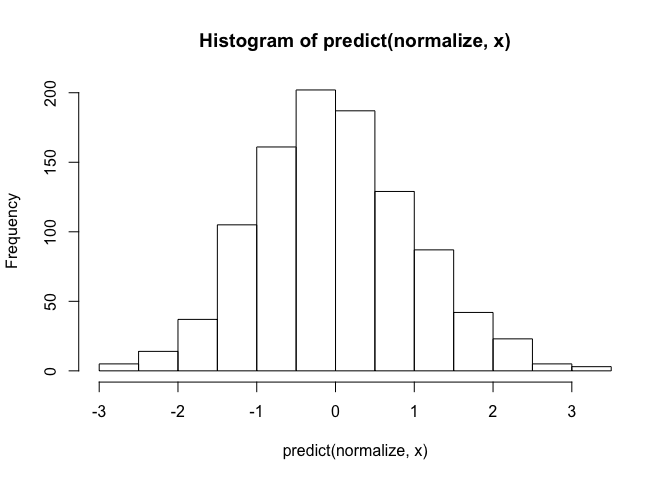
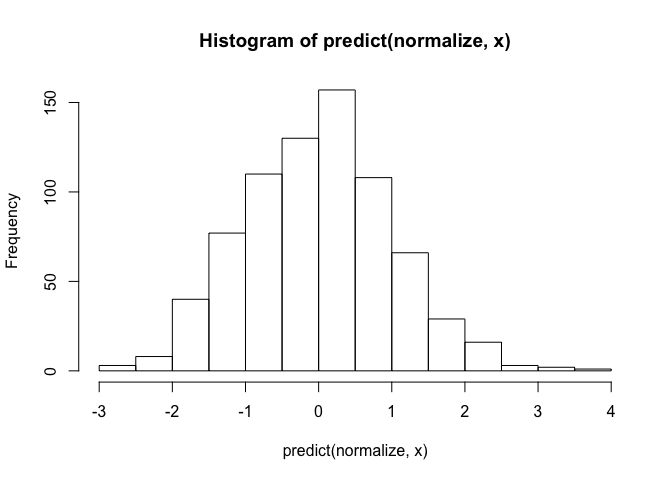
added impute

diff --git a/readme.md b/readme.md
@@ -5,9 +5,12 @@ This package is used to temporarily relieve swelling, burning, pain, and
 itching caused by data preparation.
 
     x <- rnorm(1000)
+    ## add some NAs
+    x[sample(length(x), 250)] <- NA
 
     minmax <- prep_center(method="min") %|>% prep_scale(method="range")
     normalize <- prep_center(method="mean") %|>% prep_scale(method="sd")
+    impute <- prep_impute(value=-3)
 
     hist(predict(minmax, x))
 
@@ -18,7 +21,7 @@ itching caused by data preparation.
 ![](readme_files/figure-markdown_strict/unnamed-chunk-1-2.png)
 
     ## compose further
-    combo <- minmax %|>% normalize
+    combo <- minmax %|>% impute
 
     hist(predict(combo, x))
 
